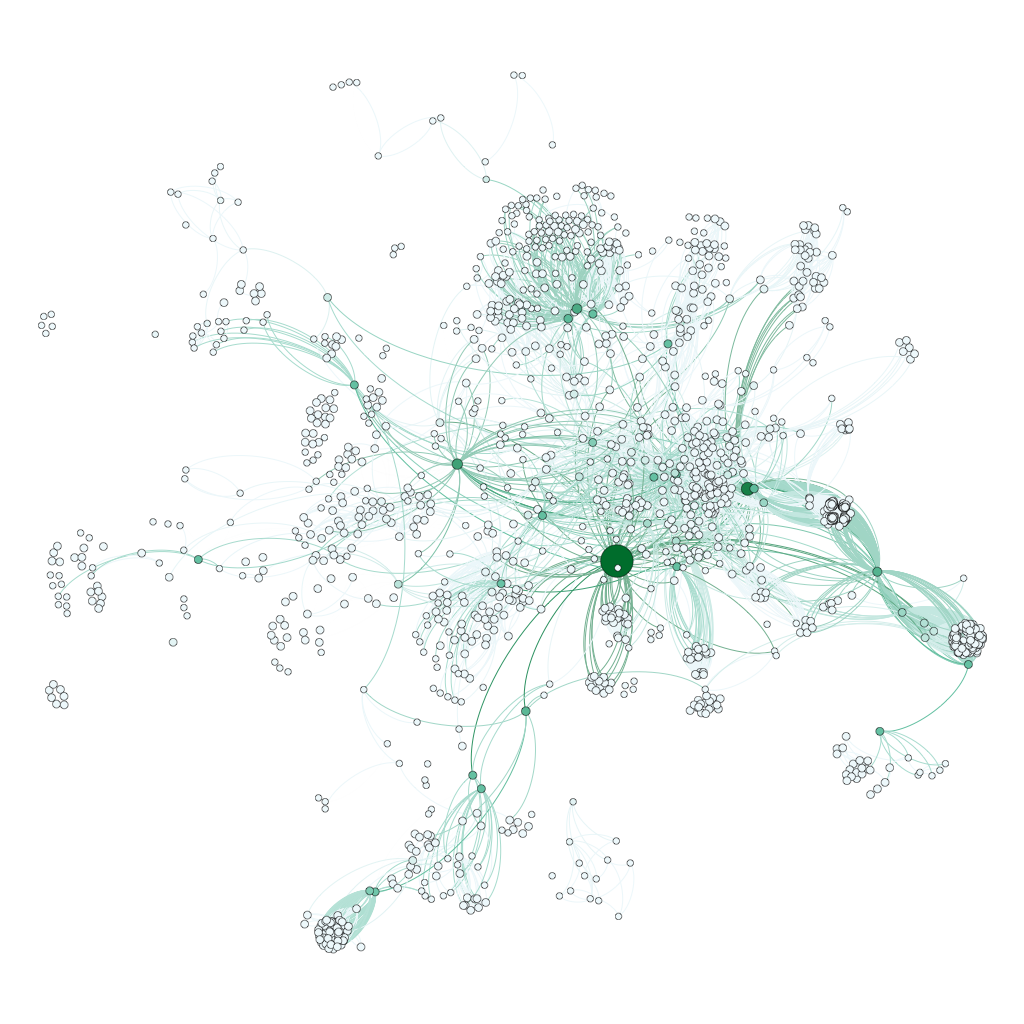
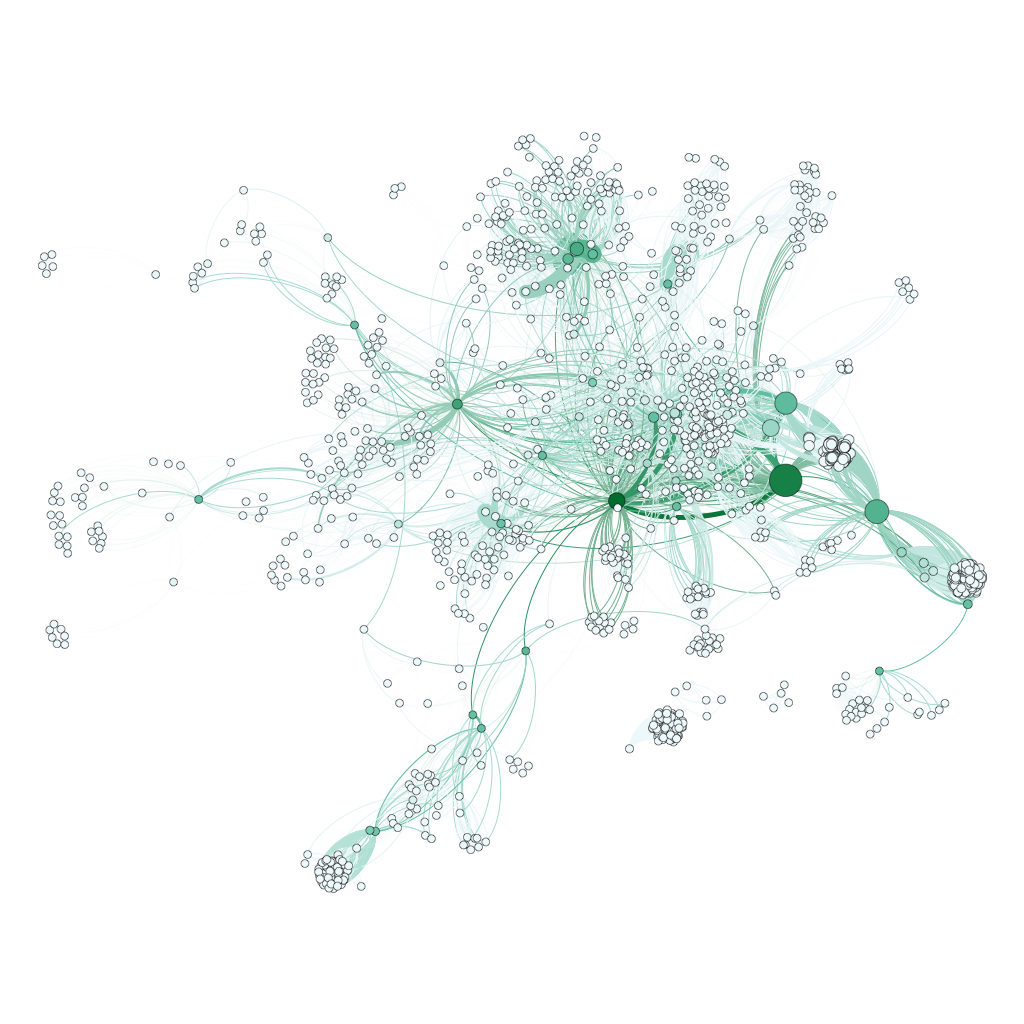
finishing touches

diff --git a/drafts/coursework/CMSC734/gephi-application-report/main.tex b/drafts/coursework/CMSC734/gephi-application-report/main.tex
@@ -34,13 +34,14 @@
 
 \section*{Introduction}
 
-In the age of social networks, it is very popular to analyze Twitter and Facebook to detect relationships and communities and to discover how information flows between groups. However, both Facebook and Twitter are examples of "performed" social networks, that is, because a user has full control over who he or she "friends" or "follows" they can artificially create a persona that they wish the outside world to perceive them as. In fact, it has been well studied that expressions of taste typically exclude the most critical groups to communication flows, and that social networks are merely the expressions of performed taste \cite{liu_social_2007}.
+In the age of social networks, it is very popular to analyze Twitter and Facebook to detect relationships and communities and to discover how information flows between groups. However, both Facebook and Twitter are examples of ``performed'' social networks, that is, because a user has full control over who he or she ``friends'' or ``follows'', they can artificially create a persona that they wish the outside world to perceive them as. In fact, it has been well studied that expressions of taste typically exclude the most critical groups to communication flows, and that social networks are merely the expressions of performed taste \cite{liu_social_2007}.
 
 Email, on the other hand, is used in every facet of modern life and typically includes and aggregate facets of ourselves that would otherwise be segregated - for example, professional and personal personas. Because we spend so much time writing, reading, and responding to email it has become integrated into a communication fabric that far exceeds other media that may get more analytical attention like text messaging or social networks. Email therefore can be seen to embed a natural communication network, from which we can extract rich insights about actual communications and influences within a single ego network - that is the email \textt{mbox} of a single user - without the bias of taste performance.
 
-If a user could be equipped with some understanding of the natural communication flow in a non-performed communication domain, we believe it would lead to more effective communication. In this paper, we will explore the analysis of two personal email networks, one from each of the authors, where one network is extremely large in terms of the number of nodes (emails participating) and the other network is extremely large in terms of the number of edges (cliquish, highly connected email). In particular, we hope to show that if a user can visualize their own networks, they will better understand the dynamic nature of their communication in terms of key players, communities, and gaps in communication - and be better able to respond to information in a meaningful way.
+%If a user could be equipped with some understanding of the natural communication flow in a non-performed communication domain, we believe it would lead to more effective communication.
+In this paper, we will explore the analysis of two personal email networks, one from each of the authors, where one network is extremely large in terms of the number of nodes (emails participating) and the other network is extremely large in terms of the number of edges (cliquish, highly connected email). In particular, we hope to show that if a user can visualize their own networks, they will better understand the dynamic nature of their network in terms of key players, communities, and gaps in communication - and be better able to respond to information in a meaningful way.
 
-In this paper we will use Gephi \cite{gephi_gephi-open_2010} to visualize email networks that have been extracted from \texttt{mbox} files via a Python tool written by the authors called \texttt{tribe}, which serializes the network into GraphML \cite{brandes_graph_2010}. Gephi has been used for visual exploration and mapping of networks \cite{bastian_gephi:_2009} and includes many features for the statistical analysis of small to medium networks \cite{mcsweeney_gephi_2009}. Work of note includes an analysis of dynamic network connections within Twitter conversations \cite{bruns_how_2012}, which show how Gephi might be used for dynamic networks whose topology can rapidly shift as in email. Finally we will critique Gephi and provide a contrast to NodeXL \cite{smith_nodexl:_2010}, another popular tool for visual network analysis.
+We will use Gephi \cite{gephi_gephi-open_2010} to visualize email networks that have been extracted from \texttt{mbox} files via a Python tool written by the authors called \texttt{tribe}, which serializes the network into GraphML \cite{brandes_graph_2010}. Gephi has been used for visual exploration and mapping of networks \cite{bastian_gephi:_2009} and includes many features for the statistical analysis of small to medium networks \cite{mcsweeney_gephi_2009}. Work of note includes an analysis of dynamic network connections within Twitter conversations \cite{bruns_how_2012}, which show how Gephi might be used for dynamic networks whose topology can rapidly shift as in email. Finally we will critique Gephi and provide a contrast to NodeXL \cite{smith_nodexl:_2010}, another popular tool for visual network analysis.
 
 \subsection*{Using Email as a Dataset}
 
@@ -64,11 +65,10 @@ Email networks are often extremely complex, involving many actors and communicat
     \label{fig:descriptive}
 \end{figure}
 
-As shown in Figure \ref{fig:descriptive}, the authors have elected to use their personal email networks, and through a simple initial visualization it becomes clear that email networks are large and complex.  The nodes in these networks represent the unique email addresses of the individuals who are participating in email communications, and the edges indicate a relationship via email, that is that both email addresses were included together in some email. Edge weights on the graph indicate the frequency of combined participation between two email addresses, the more frequent two email addresses are together on the same email, the stronger the weight. Table \ref{tab:network_comparision} gives descriptive statistics on the relative sizes of these two networks.
+As shown in Figure \ref{fig:descriptive}, the authors have elected to use their personal email networks, and through a simple initial visualization it becomes clear that email networks are large and complex.  The nodes in these networks represent the unique email addresses of the individuals who are participating in email communications, and the edges indicate a relationship via email, that is that both email addresses were included together in some email. Edge weights on the graph indicate the frequency of combined participation between two email addresses, the more frequent two email addresses are together on the same email, the stronger the weight. Table \ref{tab:network_comparison} gives descriptive statistics on the relative sizes of these two networks.
 
 \begin{table}[t!]
     \centering
-    \label{tab:network_comparison}
     \begin{tabular}{l | c c}
         \hline
         Metric & Benjamin & Kostas \\
@@ -80,9 +80,10 @@ As shown in Figure \ref{fig:descriptive}, the authors have elected to use their 
         \hline
     \end{tabular}
     \caption{Description of Email Datasets}
+    \label{tab:network_comparison}
 \end{table}
 
-Although both of these networks are comparable, because Benjamin's network has three times the number of nodes as Kostas' network, we have elected to call it the "large" network. Interestingly, Kostas' "small" network has significantly more edge connections, and is more connected than Benjamin's graph. We found that this had a very large impact on the choice of layout algorithm to use with the graphs. The "large" network responded very well to the Yifan Hu \cite{hu_efficient_2005} layout, which tended to elongate the network and spread nodes apart in clusters. On the other hand, the "small" network was more suitably laid out by the Fruchterman Reingold method \cite{fruchterman_graph_1991}. Note that neither of these medium sized graphs responded well to the Gephi default layout, the Force Atlas 2 Continuous Layout \cite{jacomy_forceatlas2_2014}.
+Although both of these networks are comparable, because Benjamin's network has three times the number of nodes as Kostas' network, we have elected to call it the ``large'' network. Interestingly, Kostas' ``small'' network has significantly more edge connections, and is more connected than Benjamin's graph. We found that this had a very large impact on the choice of layout algorithm to use for the graphs. The ``large'' network responded very well to the Yifan Hu \cite{hu_efficient_2005} layout, which tended to elongate the network and spread nodes apart in clusters. On the other hand, the ``small'' network was more suitably laid out by the Fruchterman Reingold method \cite{fruchterman_graph_1991}. Note that neither of these relatively medium sized graphs responded well to the Gephi default layout, the Force Atlas 2 Continuous Layout \cite{jacomy_forceatlas2_2014}.
 
 \begin{figure}[h]
 	\centering
@@ -102,11 +103,11 @@ Although both of these networks are comparable, because Benjamin's network has t
     \label{fig:degree}
 \end{figure}
 
-For the sake of comparison and diversity in our examples, we have extracted both of our email networks, and compared them through several statistical methods. This will allow for more concrete and reliable insight on how network visualization can yield very important insights on vast and complex interconnected data. Importantly, this is possible because both email networks exhibit a power law degree distribution, which is common to social networks and indicates that many desirably human properites can be extracted. The power laws distribution visualization in Figure \ref{fig:degree} was created by Gephi, part of the suite of statistical and reporting tools Gephi is known for.
+For the sake of comparison and diversity in our examples, we have extracted both of our email networks, and compared them through several statistical methods. This will allow for more concrete and reliable analysis on how network visualization can yield very important insights on vast and complex interconnected data. Importantly, this is possible because both email networks exhibit a power law degree distribution, which is common to social networks and indicates that many desirably human properites can be extracted. The power laws distribution visualization in Figure \ref{fig:degree} was created by Gephi, and is part of the suite of statistical and reporting tools Gephi is known for.
 
 \subsection*{Data Wrangling for Gephi}
 
-Gephi does not have native Graph extraction tools for social media and email like NodeXL does. Instead, we relied on a tool created by the author called \texttt{tribe}, which is freely available as an open source project\footnote{https://github.com/districtdatalabs/tribe}. The process for extracting a graph from email deserves some attention - as it effects the way that graphs can be visualized. First the email \texttt{mobx} had to be exported from Google using Google's data export tools. The \texttt{tribe} scripts were then used to extract the graph as follows:
+Gephi does not have native Graph extraction tools for social media like NodeXL does. While it does include an email extraction tool, we could not get it to function correctly, so we instead decided to rely on a tool created by the author called \texttt{tribe}, which is freely available as an open source project\footnote{https://github.com/districtdatalabs/tribe}. The process for extracting a graph from email deserves some attention - as it effects the way that graphs can be visualized. First the email \texttt{mobx} had to be exported from Gmail using Google's data export tools. The \texttt{tribe} scripts were then used to extract the graph as follows:
 
 \begin{enumerate}
     \item For every email, collect all email addresses regardless of field.
@@ -115,7 +116,7 @@ Gephi does not have native Graph extraction tools for social media and email lik
     \item Weight each edge as the frequency of edges across all edges
 \end{enumerate}
 
-The \texttt{tribe} tool exported the graph to a GraphML file format, which was easily importable into Gephi. This graph implemented a property graph data structure, and therefore was able to embed more information, for example the domain of the email, or domain frequency. Although these tools weren't used in our particular analysis, it's worth nothing that we had to combine a third-party tool with Gephi in order to get as complete a framework as NodeXL. Even though Gehpi does have a "data laboratory" similar to a spreadsheet, import and export via GraphML was by far the easiest workflow.
+The \texttt{tribe} tool exported the graph to a GraphML file format, which was easily importable into Gephi. This graph implemented a property graph data structure, and therefore was able to embed more information, for example the domain of the email, or domain frequency. Although these tools weren't used in our particular analysis, it's worth nothing that we had to combine a third-party tool with Gephi in order to get as complete a framework as NodeXL. Even though Gehpi does have a ``data laboratory'' similar to a spreadsheet, import and export via GraphML was by far the easiest workflow.
 
 \section*{Insights}
 
@@ -137,7 +138,7 @@ The \texttt{tribe} tool exported the graph to a GraphML file format, which was e
 		\caption{\textsf{Konstantinos Xirogiannopoulos (small)}}
         \label{fig:kostas_simplification}
 	\end{subfigure}
-    \caption{\textsf{Grouping by "Hub" reveals a simpler graph with interesting communication flows.}}
+    \caption{\textsf{Grouping by ``Hub'' reveals a simpler graph with interesting communication flows.}}
     \label{fig:simplification}
 \end{figure}
 
@@ -145,13 +146,13 @@ Our analysis of the large and small email networks was intended to discover cent
 
 \subsection*{Motif Simplification Reveals Surprising Hubs of Information Flow}
 
-Unfortunately, Gephi does not have the same suite of tools for motif simplification that NodeXL does. Within the Gephi visualization process you can adjust the size, shape, and color of nodes and their labels as well as the color of edges. In order to pursue an analysis similar to "fans" and "connectors" in NodeXL, we instead used a grouping technique to combine similar or highly connected nodes into a single node. We also wanted to find a method to perform edge bundling, a feature reported to be in Gephi \cite{pupyrev_edge_2012,gansner_multilevel_2011}, but were unable to implement it. Figure \ref{fig:simplification} shows how the grouping process can immediately alleviate the complexity of the graph and quickly indicate the most critical hubs of information flow.
+Unfortunately, Gephi does not have the same suite of tools for motif simplification that NodeXL does. Within the Gephi visualization process you can adjust the size, shape, and color of nodes and their labels as well as the color of edges. In order to pursue an analysis similar to ``fans'' and ``connectors'' in NodeXL, we instead used a grouping technique to combine similar or highly connected nodes into a single node. We also wanted to find a method to perform edge bundling, a feature reported to be in Gephi \cite{pupyrev_edge_2012,gansner_multilevel_2011}, but were unable to implement it. Figure \ref{fig:simplification} shows how the grouping process can immediately alleviate the complexity of the graph and quickly indicate the most critical hubs of information flow.
 
-Our methodology to simplify the graph was to use a "deduplication" mechanism based on the \texttt{HITS} computation of authority. This methodology computed the node with the highest number of one and two degree triangles within each geodesic. That is- which node is the most connected node in a two degree neighborhood, and also participates in the shortest path. This technique reduced the "large" graph to 61 nodes and the "small" graph to only 29. Because this graph was more managable from a human understanding perspective, this is also the only graph to which we were able to assign labels.
+Our methodology to simplify the graph was to use a ``deduplication'' mechanism based on the \texttt{HITS} computation of authority. This methodology computed the node with the highest number of one and two degree triangles within each geodesic. That is- which node is the most connected node in a two degree neighborhood, and also participates in the shortest path. This technique reduced the ``large'' graph to 61 nodes and the ``small'' graph to only 29. Because this graph was more managable from a human understanding perspective, this is also the only graph to which we were able to assign labels.
 
-The reduction of nodes was also coupled with some visual motifs. The "authority" of each node was reflected by the size of the node. Furthermore, we used a "betweenness centrality" metric to color the nodes on a continuous gradient scale, where red nodes have a smaller betweenness centrality and blue nodes a larger one. Unfortunately it was impossible to include legends using Gephi, so they were necessarily omitted from the graph.
+The reduction of nodes was also coupled with some visual motifs. The ``authority'' of each node was reflected by the size of the node. Furthermore, we used a ``betweenness centrality'' metric to color the nodes on a continuous gradient scale, where red nodes have a smaller betweenness centrality and blue nodes a larger one. Unfortunately it was impossible to include legends using Gephi, so they were necessarily omitted from the graph.
 
-What was surpising was the nodes that were actually selected as hubs. In both networks the central, most between node is the person whose email inbox we're analyzing, surrounded by green - somewhat between nodes that are critical. However, around the periphery are light yellow and red nodes which act as hubs for more distant (in terms of layout) clusters where email communication is occasional. The hubs in the outer layer are often not ones the authors associate with direct email communications, but rather are often included or CC'd in email messages. This happens so often for a variety of different email conversations and domains (work, school, different sets of friends) that they become more authoritative in the communication process.
+What was surpising was the nodes that were actually selected as \textit{hubs}. In both networks the central, most between node is the person whose email inbox we are analyzing, surrounded by green - somewhat between nodes that are critical. However, around the periphery are light yellow and red nodes which act as hubs for more distant (in terms of layout) clusters where email communication is occasional. The hubs in the outer layer are often not ones the authors associate with direct email communications, but rather are often included or CC'd in email messages. This happens so often for a variety of different email conversations and domains (work, school, different sets of friends) that they become more authoritative in the communication process.
 
 \subsection*{Central Nodes Don't Often Have a High Degree}
 
@@ -173,12 +174,13 @@ What was surpising was the nodes that were actually selected as hubs. In both ne
     \label{fig:centrality}
 \end{figure}
 
-Our next exploration of critical communication channels followed from the idea that surprising nodes had authority because of their degree. Instead, we wanted to include as many nodes as possible and measure their centrality - that is how important they were to the flow of information across the network. In order to simplify the graph without losing too much information, we filtered to ensure only connected nodes to the Giant (the email of the inbox) that had a degree of higher than 4 remained. This removed approximately 60\% of the nodes, but only 10\% of the edges. In order to better visualize key players, the ego node was removed from the visualization.
+Our next exploration of critical communication channels followed from the idea that surprising nodes had authority because of their degree. Instead, we wanted to include as many nodes as possible and measure their centrality - that is how important they were to the flow of information across the network. In order to simplify the graph without losing too much information, we filtered to ensure only connected nodes to the \textit{giant} (the email of the inbox) that had a degree of higher than 4 remained. This removed approximately 60\% of the nodes, but only 10\% of the edges. In order to better visualize key players, the ego node was removed from the visualization.
 
-In Figure \ref{fig:centrality}, the green scale represents the betweenness centrality of each node, where dark green is a high centrality score and white nodes are not central. The size of the node is related to the degree centrality, that is how many edges the node participates in. This graph reveals that the nodes with a high betweenness centrality, that is that they sit on many shortest paths, are often located in critical parts of the graph structurally (e.g. connecting groups), but for the most part do not have a high degree. These "connective" nodes are usually actors who facilitate communication, between one group and another, often directly through the ego node. It is a bit surprising that they shouldn't have a high degree; instead each critical node joins specific subgroups rather than multiple ones.
+In Figure \ref{fig:centrality}, the green scale represents the betweenness centrality of each node, where dark green is a high centrality score and white nodes are not central. The size of the node is related to the degree centrality, that is how many edges the node participates in. This graph reveals that the nodes with a high betweenness centrality, that is that they sit on many shortest paths, are often located in critical parts of the graph structurally (e.g. connecting groups), but for the most part do not have a high degree. These ``connective'' nodes are usually actors who facilitate communication, between one group and another, often directly through the ego node. It's a bit surpising that they don't always have a a high degree; instead each critical node seems to join specific subgroups rather than multiple ones together.
+%It is a bit surprising that they shouldn't have a high degree; instead each critical node joins specific subgroups rather than multiple ones.
+%NOTE Kostas: Not really sure what you meant here. I fixed my mistake, hopefully we understood the same thing. Feel free to change anything.
 
-\subsection*{Revealing Clusters and Communities}
-% [Here, we will have our two networks, where we show clusters in them, and compare/contrast the two different networks and the clusters that appear within. I have figured out how to do that and I think it looks cool and will show you my network soon]
+\subsection*{Comminucation Load Varies Widely Between Communities}
 
 \begin{figure}[h]
 	\centering
@@ -198,25 +200,19 @@ In Figure \ref{fig:centrality}, the green scale represents the betweenness centr
     \label{fig:cluster}
 \end{figure}
 
-By visualizing our email networks in certain ways, and with the help of some useful features that \textit{Gephi} provides, we were able to extract and reason about about the clusters that form around the center node. To reach this result we used \textit{K-Core filtering} to remove the low degree nodes, as well as \textit{modularity} feature to extract the clusters. As seen in [Figure] there are several clusters that form can form, some of which the center node takes place in, but also some that are disconnected from the center node. Some clusters are very loosely connected, while others share very dense sets of connections. By using the Fruchterman Reingold[] layout algorithm, the clusters appear very clearly and in an organized fashion, around the center node. This layout algorithm allows clusters to emerge and by using \textit{Gephi} we were able to then start digging deeper into what these clusters signify. The emails of our contacts are not shown in the visualization in order to maintain privacy, however \textit{Gephi} allows us to view the email adresses of each node as a label.
+By visualizing our email networks in certain ways, and with the help of some useful features that \textit{Gephi} provides, we were able to extract and reason about about the clusters that form around the center node. To reach this result we used \textit{K-Core filtering} to remove the low degree nodes, as well as the \textit{modularity} feature to extract the clusters. Gephi uses Louvian Community Detection \cite{de_meo_generalized_2011} in modularity in order to identify clusters in the network. As seen in \ref{fig:cluster} there are several clusters that can form, some of which include the center node, but also some that are disjoint from the center node. Some clusters are very loosely connected, while others share very dense sets of connections. By using the Fruchterman Reingold \cite{fruchterman_graph_1991} layout algorithm, the clusters appear very clearly and in an organized fashion, around the center node in the ``small'' graph. For the ``large'' graph, we found that the Yifan Hu \cite{hu_efficient_2005} layout facilitated in making the graph more comprehensible. These layout and statistics algorithms allow clusters to emerge and by using Gephi we were able to then start digging deeper into what these clusters signify.
 
-Louvian Community Detection \cite{de_meo_generalized_2011}
-
-\subsection*{Small graph}
-In the graph on the right, we can clearly make out the clusters that appear in this individual's network. For example, the red cluster is the university email cluster, and includes email that occured during team projects. This cluster is extremely dense, as emails are being sent back and forth between team members, including everyone in the conversation. There are also a few very thick edges in the graph, between the center node and one more node. This signifies vast amounts of email between these two nodes and only between them.
-
+It was surprising that not all clusters are as densely connected with eachother. For instance there are communities where communication is sparse and occasional, where cliques do appear, however node degrees are very low (e.g. blue cluster in ``small'' graph). On the other hand, there appear extremely large and dense clusters where vast amounts of emails travel back and forth between different nodes in the cluster (e.g. the \textit{red} clusters in both graphs). We believe these types of clusters (this is the case here) signify collaboration email, where users are cc'd with eachother and different users are always the ones who initiate the conversation.
 
 \section*{Critique}
 
-Gephi has some very large pros to it. It is a multi platform tool that can be used for a wide array of graph visualizations. The most important part in visualizing a graph seems to be laying it out properly. \textit{Gephi} has a complete set of layout algorithms that work very well, and allow for laying out the graph in various ways, depending on the size and shape of the graph. \textit{Gephi} also includes various of great \textit{filtering} features, that allow the user to extract a more version of their graph that only includes tha nodes and edges that should be included and that will make sense for the analysis. A wide variety of graph statistics can also effortlessly be computed, and used as parameters in the visualization. Overall, we believe that someone who is already somewhat familiar with \textit{Gephi}, can easily go from raw graph data, to very insightful visualizations in a matter of a few minutes.
+Gephi has some very significant pros to it. It is a multi platform tool that can be used for a wide array of graph visualizations. The most important part in visualizing a graph seems to be laying it out properly. Gephi has a complete set of layout algorithms that work very well, and allow for laying out the graph in various ways, depending on the size and shape of the graph. Gephi also includes various of great \textit{filtering} features, that allow the user to extract a more version of their graph that only includes tha nodes and edges that should be included and that will make sense for the analysis. A wide variety of graph statistics can also effortlessly be computed, and used as parameters in the visualization. Overall, we believe that someone who is already somewhat familiar with Gephi, can easily go from raw graph data, to very insightful visualizations in a matter of a few minutes.Gephi is certainly not as complete as NodeXL - but a dedicated system rather than a tie into Microsoft Excel made it more easily accessible on other platforms.
 
-Like any tool out there, \textit{Gephi} has a few downsides to it, and unfortunatelly in this case they are critical the the smooth usability of the tool. Firstly, we found several very severe bugs in \textit{Gephi}, for instance when the user saves their progress on a visualization in a .gephi project file, that file then cannot be re-opened, therefore if the program crashes or the user shuts down their computer, they must start from the beginning and re-trace their steps to get the same result. Furthermore, there is no \textbf{undo} functionality in \textit{Gephi}. This is something very unfortunate and makes the tool very difficult to use as the user cannot revert a change that was made by accident. Overall, \textit{Gephi} has a bit of a steep learning curve, before the user understands what each filter and layout does and are able to get their graph down to a manageable size and shape.
-
-Gephi is certainly not as complete as NodeXL - but a dedicated system rather than a tie into Microsoft Excel made it more easily accessible on other platforms.
+Like any tool out there, Gephi has a few downsides to it, and unfortunatelly in this case they are critical the the smooth usability of the tool. Firstly, we found several very severe bugs in Gephi, for instance when the user saves their progress on a visualization in a .gephi project file, that file then cannot be re-opened, therefore if the program crashes or the user shuts down their computer, they must start from the beginning and re-trace their steps to get the same result. Furthermore, there is no \textbf{undo} functionality in Gephi. This is something very unfortunate and makes the tool very difficult to use as the user cannot revert a change that was made by accident. Overall, Gephi has a bit of a steep learning curve, before the user understands what each filter and layout does and are able to get their graph down to a manageable size and shape.
 
 \section*{Conclusion}
 
-What we did, what we learned, what we'd do again.
+In this paper, we became familiar with, and utilized the widely used network visualization tool \textit{Gephi}, to explore the inner-workings of our email networks. We simplified the networks and found out how ``hubs'' are connected within our network and learnt that the individuals that act as hubs within our communities are different than expected. Moreover, we and identified who the key-players are in our network, and that these individuals act as communication hotspots between ourselves and the wider community of people we interact with, and don't often have a high degree. Lastly, we detected sparse, and dense clusters within our networks and found that not all of our communities share as tight bonds with eachother.
 
 
 \bibliographystyle{plain}

diff --git a/drafts/coursework/CMSC734/gephi-application-report/figures/README.md b/drafts/coursework/CMSC734/gephi-application-report/figures/README.md
@@ -43,8 +43,8 @@ Export to PNG:
 1. Filter --> _K-Core_ filtering in Filters -> Topology -> K-Core. Using K=2. (This means filter out any nodes that have a degree of less than 2)
 2. Layout graph by running the _Fruchterman Reingold_ algorithm under Layout. Wait until it converges to a satisfactory layout and then _Stop_ it.
 3. Under Statistics, run _Network Diameter_.
-4. Under _Ranking_ --> _Nodes_ choose _Betweenness Centrality_.
-5. Under _Ranking_ --> _Nodes_, alter the color range to see less significant but existent users with higer than normal _Betweenness Centrality_
+4. Under _Ranking_ --> _Nodes_, alter size and choose _Degree_.
+5. Under _Ranking_ --> _Nodes_, alter the color, choose _Betweenness Centrality_, tweak the color range to see less significant but existent users with higer than normal _Betweenness Centrality_
 
 ## Clustering
 
